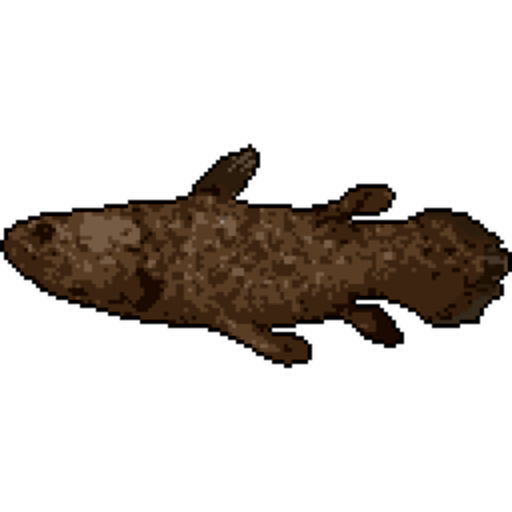
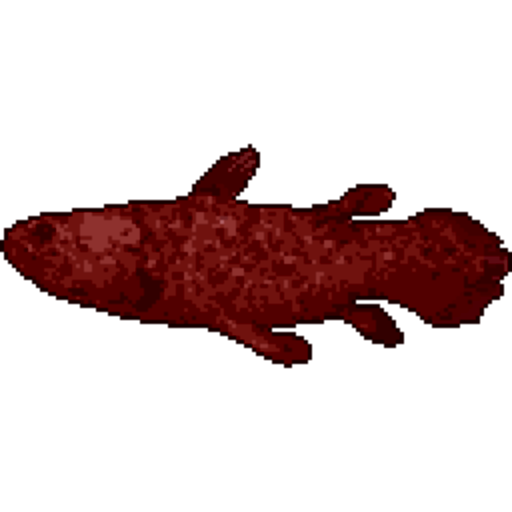
New Fish and Additional Balancing
12 new fish. Some shop prices were changed for better balancing.

Changed region(s): [[0.0, 0.2812, 1.0, 0.7188]]

diff --git a/data/fishdata.js b/data/fishdata.js
@@ -137,7 +137,7 @@ module.exports = [
         l_variance: 12,
         difficulty: 2,
         weight: 6,
-        color: "Green",
+        color: "Red",
         value: 100,
         time: "All",
         type: "Freshwater",
@@ -427,6 +427,162 @@ module.exports = [
         value: 110,
         time: "Morning",
         type: "Freshwater",
+    },
+    {
+        name: "Golden Basslet",
+        fishNo: 34,
+        rarity: "Legendary",
+        length: 2,
+        l_variance: 1,
+        difficulty: 6,
+        weight: 3,
+        color: "Gold",
+        value: 15000,
+        time: "All",
+        type: "Freshwater",
+    },
+    {
+        name: "Neptune Grouper",
+        fishNo: 35,
+        rarity: "Legendary",
+        length: 10,
+        l_variance: 6,
+        difficulty: 8,
+        weight: 3,
+        color: "Orange",
+        value: 12000,
+        time: "Evening",
+        type: "Saltwater",
+    },
+    {
+        name: "Striped Bass",
+        fishNo: 36,
+        rarity: "Uncommon",
+        length: 26,
+        l_variance: 12,
+        difficulty: 4,
+        weight: 50,
+        color: "Olive",
+        value: 55,
+        time: "Night",
+        type: "Saltwater",
+    },
+    {
+        name: "Yellow Pike",
+        fishNo: 37,
+        rarity: "Uncommon",
+        length: 26,
+        l_variance: 12,
+        difficulty: 5,
+        weight: 20,
+        color: "Yellow",
+        value: 80,
+        time: "Night",
+        type: "Freshwater",
+    },
+    {
+        name: "Lake Trout",
+        fishNo: 38,
+        rarity: "Common",
+        length: 24,
+        l_variance: 14,
+        difficulty: 3,
+        weight: 30,
+        color: "Gray",
+        value: 15,
+        time: "Morning",
+        type: "Freshwater",
+    },
+    {
+        name: "Rainbow Trout",
+        fishNo: 39,
+        rarity: "Uncommon",
+        length: 30,
+        l_variance: 13,
+        difficulty: 6,
+        weight: 40,
+        color: "Rainbow",
+        value: 100,
+        time: "Morning",
+        type: "Freshwater",
+    },
+    {
+        name: "Giant Trevally",
+        fishNo: 40,
+        rarity: "Epic",
+        length: 50,
+        l_variance: 20,
+        difficulty: 9,
+        weight: 100,
+        color: "Gray",
+        value: 3000,
+        time: "Afternoon",
+        type: "Saltwater",
+    },
+    {
+        name: "Oarfish",
+        fishNo: 41,
+        rarity: "Epic",
+        length: 360,
+        l_variance: 100,
+        difficulty: 10,
+        weight: 400,
+        color: "Silver",
+        value: 3000,
+        time: "Night",
+        type: "Saltwater",
+    },
+    {
+        name: "Barreleye",
+        fishNo: 42,
+        rarity: "Mythical",
+        length: 4,
+        l_variance: 2,
+        difficulty: 15,
+        weight: 5,
+        color: "Black",
+        value: 110000,
+        time: "Night",
+        type: "Saltwater",
+    },
+    {
+        name: "Ocean Sunfish",
+        fishNo: 43,
+        rarity: "Epic",
+        length: 40,
+        l_variance: 30,
+        difficulty: 15,
+        weight: 540,
+        color: "Silver",
+        value: 3500,
+        time: "Night",
+        type: "Saltwater",
+    },
+    {
+        name: "Goldfish",
+        fishNo: 44,
+        rarity: "Common",
+        length: 12,
+        l_variance: 9,
+        difficulty: 1,
+        weight: 5,
+        color: "Orange",
+        value: 10,
+        time: "All",
+        type: "Freshwater",
+    },
+    {
+        name: "Leafy Seadragon",
+        fishNo: 45,
+        rarity: "Legendary",
+        length: 11,
+        l_variance: 5,
+        difficulty: 6,
+        weight: 5,
+        color: "Yellow",
+        value: 10000,
+        time: "All",
+        type: "Saltwater",
     },
 ]
 

diff --git a/data/shopdata.js b/data/shopdata.js
@@ -13,13 +13,13 @@ module.exports = [
     },
     {
         name: "Tier Three Bait",
-        price: "1250",
+        price: "2500",
         description: "Significantly better than the others.",
         use: "Attracts all fish other than common and uncommon."
     },
     {
         name: "Tier Four Bait",
-        price: "5000",
+        price: "12500",
         description: "Only for the best fish.",
         use: "Attracts all fish other than common, uncommon, and rare."
     },
